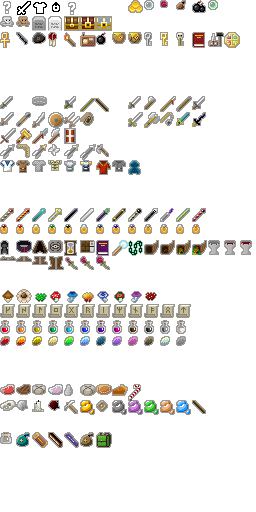
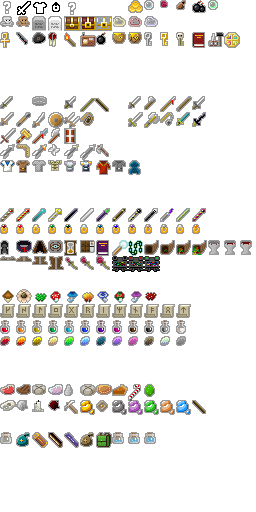
First Release

diff --git a/core/src/main/java/com/shatteredpixel/lovecraftpixeldungeon/sprites/ItemSpriteSheet.java b/core/src/main/java/com/shatteredpixel/lovecraftpixeldungeon/sprites/ItemSpriteSheet.java
@@ -70,6 +70,9 @@ public class ItemSpriteSheet {
 	public static final int CHEST           = CONTAINERS+4;
 	public static final int LOCKED_CHEST    = CONTAINERS+5;
 	public static final int CRYSTAL_CHEST   = CONTAINERS+6;
+	public static final int GOO_DROP_YELLOW = CONTAINERS+7;
+	public static final int GOO_DROP_RED    = CONTAINERS+8;
+	public static final int GOO_DROP_PURPLE = CONTAINERS+9;
 	static{
 		assignItemRect(BONES,           14, 11);
 		assignItemRect(REMAINS,         14, 11);
@@ -78,6 +81,12 @@ public class ItemSpriteSheet {
 		assignItemRect(CHEST,           16, 15);
 		assignItemRect(LOCKED_CHEST,    16, 15);
 		assignItemRect(CRYSTAL_CHEST,   16, 15);
+		assignItemRect(CHEST,           16, 15);
+		assignItemRect(LOCKED_CHEST,    16, 15);
+		assignItemRect(CRYSTAL_CHEST,   16, 15);
+		assignItemRect(GOO_DROP_YELLOW, 16, 12);
+		assignItemRect(GOO_DROP_RED,    16, 12);
+		assignItemRect(GOO_DROP_PURPLE, 16, 12);
 	}
 
 	private static final int SINGLE_USE     =                               xy(1, 3);   //32 slots
@@ -294,6 +303,9 @@ public class ItemSpriteSheet {
 	public static final int ARTIFACT_ROSE1      = ARTIFACTS+20;
 	public static final int ARTIFACT_ROSE2      = ARTIFACTS+21;
 	public static final int ARTIFACT_ROSE3      = ARTIFACTS+22;
+	public static final int ARTIFACT_STATUEPEPE1= ARTIFACTS+23;
+	public static final int ARTIFACT_STATUEPEPE2= ARTIFACTS+24;
+	public static final int ARTIFACT_STATUEPEPE3= ARTIFACTS+25;
 	static{
 		assignItemRect(ARTIFACT_CLOAK,      9,  15);
 		assignItemRect(ARTIFACT_ARMBAND,    16, 13);
@@ -318,6 +330,9 @@ public class ItemSpriteSheet {
 		assignItemRect(ARTIFACT_ROSE1,      14, 14);
 		assignItemRect(ARTIFACT_ROSE2,      14, 14);
 		assignItemRect(ARTIFACT_ROSE3,      14, 14);
+		assignItemRect(ARTIFACT_STATUEPEPE1,16, 16);
+		assignItemRect(ARTIFACT_STATUEPEPE2,16, 16);
+		assignItemRect(ARTIFACT_STATUEPEPE3,16, 16);
 	}
 
 	private static final int SHROOMS        	=                               xy(1, 19);  //16 slots
@@ -404,6 +419,7 @@ public class ItemSpriteSheet {
 	public static final int PASTY       = FOOD+6;
 	public static final int PUMPKIN_PIE = FOOD+7;
 	public static final int CANDY_CANE  = FOOD+8;
+	public static final int MIGOEGG     = FOOD+9;
 	static{
 		assignItemRect(MEAT,        15, 11);
 		assignItemRect(STEAK,       15, 11);
@@ -414,6 +430,7 @@ public class ItemSpriteSheet {
 		assignItemRect(PASTY,       16, 11);
 		assignItemRect(PUMPKIN_PIE, 16, 12);
 		assignItemRect(CANDY_CANE,  13, 16);
+		assignItemRect(MIGOEGG,     16, 14);
 	}
 
 	private static final int QUEST  	=                                       xy(1, 26);  //32 slots
@@ -455,6 +472,9 @@ public class ItemSpriteSheet {
 	public static final int HOLSTER     = BAGS+4;
 	public static final int FOODBAG     = BAGS+5;
 	public static final int WEAPONBAG   = BAGS+6;
+	public static final int VIALF1      = BAGS+7;
+	public static final int VIALF2      = BAGS+8;
+	public static final int VIALF3      = BAGS+9;
 	static{
 		assignItemRect(VIAL,        12, 12);
 		assignItemRect(POUCH,       14, 15);
@@ -463,6 +483,9 @@ public class ItemSpriteSheet {
 		assignItemRect(HOLSTER,     15, 16);
 		assignItemRect(FOODBAG,     14, 15);
 		assignItemRect(WEAPONBAG,   16, 16);
+		assignItemRect(VIALF1,      12, 12);
+		assignItemRect(VIALF2,      12, 12);
+		assignItemRect(VIALF3,      12, 12);
 	}
 
 	                                                                                    //64 free slots

diff --git a/core/src/main/java/com/shatteredpixel/lovecraftpixeldungeon/levels/painters/KekTemplePainter.java b/core/src/main/java/com/shatteredpixel/lovecraftpixeldungeon/levels/painters/KekTemplePainter.java
@@ -1,0 +1,73 @@
+/*
+ * Pixel Dungeon
+ * Copyright (C) 2012-2015  Oleg Dolya
+ *
+ * Shattered Pixel Dungeon
+ * Copyright (C) 2014-2016 Evan Debenham
+ *
+ * This program is free software: you can redistribute it and/or modify
+ * it under the terms of the GNU General Public License as published by
+ * the Free Software Foundation, either version 3 of the License, or
+ * (at your option) any later version.
+ *
+ * This program is distributed in the hope that it will be useful,
+ * but WITHOUT ANY WARRANTY; without even the implied warranty of
+ * MERCHANTABILITY or FITNESS FOR A PARTICULAR PURPOSE.  See the
+ * GNU General Public License for more details.
+ *
+ * You should have received a copy of the GNU General Public License
+ * along with this program.  If not, see <http://www.gnu.org/licenses/>
+ */
+package com.shatteredpixel.lovecraftpixeldungeon.levels.painters;
+
+import com.shatteredpixel.lovecraftpixeldungeon.Dungeon;
+import com.shatteredpixel.lovecraftpixeldungeon.actors.mobs.Yig;
+import com.shatteredpixel.lovecraftpixeldungeon.items.Generator;
+import com.shatteredpixel.lovecraftpixeldungeon.items.Item;
+import com.shatteredpixel.lovecraftpixeldungeon.items.potions.PotionOfLevitation;
+import com.shatteredpixel.lovecraftpixeldungeon.items.weapon.Weapon;
+import com.shatteredpixel.lovecraftpixeldungeon.levels.Level;
+import com.shatteredpixel.lovecraftpixeldungeon.levels.Room;
+import com.shatteredpixel.lovecraftpixeldungeon.levels.Terrain;
+import com.shatteredpixel.lovecraftpixeldungeon.typedscroll.randomer.Randomer;
+import com.watabou.utils.Point;
+import com.watabou.utils.Random;
+
+public class KekTemplePainter extends Painter {
+
+	public static void paint(Level level, Room room ) {
+
+		fill( level, room, Terrain.WALL );
+		fill( level, room, 1, Dungeon.bossLevel( Dungeon.depth + 1 ) ? Terrain.HIGH_GRASS : Terrain.CHASM );
+
+		Point c = room.center();
+		Room.Door door = room.entrance();
+		door.set(Room.Door.Type.EMPTY);
+
+		fill( level, c.x - 1, c.y - 1, 3, 3, Terrain.EMBERS );
+		int pos = c.x + c.y * level.width();
+		if(Randomer.randomBoolean() == true){
+			level.drop(new PotionOfLevitation(), pos);
+			Item item = Generator.random(Generator.Category.WEP_T5);
+			if(item instanceof Weapon){
+				((Weapon) item).enchant().upgrade(Random.IntRange(Dungeon.depth/2, Dungeon.depth)).identify();
+			}
+			level.drop(item, pos );
+			set( level, c, Terrain.PEDESTAL );
+
+		} else {
+			set( level, c, Terrain.ENCHANTING);
+			level.drop(new PotionOfLevitation(), pos+1);
+		}
+		Yig yig = new Yig();
+		yig.pos = pos-1;
+		yig.SLEEPING.status();
+		level.mobs.add( yig );
+
+		level.addItemToSpawn( new PotionOfLevitation() );
+
+
+
+		door.set( Room.Door.Type.EMPTY );
+	}
+}

diff --git a/core/src/main/java/com/shatteredpixel/lovecraftpixeldungeon/items/DewVial.java b/core/src/main/java/com/shatteredpixel/lovecraftpixeldungeon/items/DewVial.java
@@ -98,6 +98,17 @@ public class DewVial extends Item {
 		if(action.equals( AC_BLESS )){
 			GameScene.selectItem(itemSelector, mode, inventoryTitle);
 			this.empty();
+			if(isFull()){
+				image = ItemSpriteSheet.VIALF3;
+			} else if(volume == MAX_VOLUME/2){
+				image = ItemSpriteSheet.VIALF2;
+			} else if(volume >= 1){
+				image = ItemSpriteSheet.VIALF1;
+			} else {
+				image = ItemSpriteSheet.VIAL;
+			}
+
+			updateQuickslot();
 			GLog.w( Messages.get(this, "blessed") );
 		}
 
@@ -139,7 +150,30 @@ public class DewVial extends Item {
 
 			} else {
 				GLog.w( Messages.get(this, "empty") );
+				if(isFull()){
+					image = ItemSpriteSheet.VIALF3;
+				} else if(volume == MAX_VOLUME/2){
+					image = ItemSpriteSheet.VIALF2;
+				} else if(volume >= 1){
+					image = ItemSpriteSheet.VIALF1;
+				} else {
+					image = ItemSpriteSheet.VIAL;
+				}
+
+				updateQuickslot();
 			}
+
+			if(isFull()){
+				image = ItemSpriteSheet.VIALF3;
+			} else if(volume == MAX_VOLUME/2){
+				image = ItemSpriteSheet.VIALF2;
+			} else if(volume >= 1){
+				image = ItemSpriteSheet.VIALF1;
+			} else {
+				image = ItemSpriteSheet.VIAL;
+			}
+
+			updateQuickslot();
 
 		}
 	}
@@ -171,6 +205,16 @@ public class DewVial extends Item {
 
 		weight = (volume/10) + 1;
 
+		if(isFull()){
+			image = ItemSpriteSheet.VIALF3;
+		} else if(volume == MAX_VOLUME/2){
+			image = ItemSpriteSheet.VIALF2;
+		} else if(volume >= 1){
+			image = ItemSpriteSheet.VIALF1;
+		} else {
+			image = ItemSpriteSheet.VIAL;
+		}
+
 		updateQuickslot();
 	}
 
@@ -185,11 +229,30 @@ public class DewVial extends Item {
 
 		weight = (volume/10) + 1;
 
+		if(isFull()){
+			image = ItemSpriteSheet.VIALF3;
+		} else if(volume == MAX_VOLUME/2){
+			image = ItemSpriteSheet.VIALF2;
+		} else if(volume >= 1){
+			image = ItemSpriteSheet.VIALF1;
+		} else {
+			image = ItemSpriteSheet.VIAL;
+		}
+
 		updateQuickslot();
 	}
 
 	public void fill() {
 		volume = MAX_VOLUME;
+		if(isFull()){
+			image = ItemSpriteSheet.VIALF3;
+		} else if(volume == MAX_VOLUME/2){
+			image = ItemSpriteSheet.VIALF2;
+		} else if(volume >= 1){
+			image = ItemSpriteSheet.VIALF1;
+		} else {
+			image = ItemSpriteSheet.VIAL;
+		}
 		updateQuickslot();
 	}
 

diff --git a/core/src/main/java/com/shatteredpixel/lovecraftpixeldungeon/levels/painters/LevelBossPainter.java b/core/src/main/java/com/shatteredpixel/lovecraftpixeldungeon/levels/painters/LevelBossPainter.java
@@ -25,6 +25,7 @@ import com.shatteredpixel.lovecraftpixeldungeon.actors.mobs.MiGoQueen;
 import com.shatteredpixel.lovecraftpixeldungeon.items.Generator;
 import com.shatteredpixel.lovecraftpixeldungeon.items.Heap;
 import com.shatteredpixel.lovecraftpixeldungeon.items.Item;
+import com.shatteredpixel.lovecraftpixeldungeon.items.keys.GoldenKey;
 import com.shatteredpixel.lovecraftpixeldungeon.items.keys.IronKey;
 import com.shatteredpixel.lovecraftpixeldungeon.levels.Level;
 import com.shatteredpixel.lovecraftpixeldungeon.levels.Room;
@@ -34,11 +35,9 @@ import com.watabou.utils.Random;
 
 public class LevelBossPainter extends Painter {
 
-	public static void paint(Level level, Room room ) {
+	public static void paint(final Level level, Room room ) {
 
 		Room.Door entrance = room.entrance();
-		entrance.set(Room.Door.Type.LOCKED);
-		level.addItemToSpawn(new IronKey(Dungeon.depth));
 
 		fill(level, room, Terrain.WALL);
 		fill(level, room, 1, Terrain.EMPTY);
@@ -60,9 +59,20 @@ public class LevelBossPainter extends Painter {
 		placePlant(level, room.center().x+room.center().y * level.width(), heartX + heartY * level.width());
 
 		if(Dungeon.depth == 1){
-			MiGoQueen miGoQueen = new MiGoQueen();
+			MiGoQueen miGoQueen = new MiGoQueen(){
+				@Override
+				public void die(Object cause) {
+					super.die(cause);
+					level.drop(new GoldenKey(Dungeon.depth), this.pos);
+				}
+			};
 			miGoQueen.pos = room.center().x+room.center().y * level.width();
 			Dungeon.level.mobs.add(miGoQueen);
+		}
+
+		for (Room.Door door : room.connected.values()) {
+			door.set( Room.Door.Type.LOCKED );
+			level.addItemToSpawn(new IronKey(Dungeon.depth));
 		}
 	}
 

diff --git a/core/src/main/java/com/shatteredpixel/lovecraftpixeldungeon/actors/mobs/MiGoQueen.java b/core/src/main/java/com/shatteredpixel/lovecraftpixeldungeon/actors/mobs/MiGoQueen.java
@@ -26,6 +26,7 @@ import com.shatteredpixel.lovecraftpixeldungeon.actors.Char;
 import com.shatteredpixel.lovecraftpixeldungeon.actors.hero.Hero;
 import com.shatteredpixel.lovecraftpixeldungeon.effects.Pushing;
 import com.shatteredpixel.lovecraftpixeldungeon.items.KindOfWeapon;
+import com.shatteredpixel.lovecraftpixeldungeon.items.MiGoEgg;
 import com.shatteredpixel.lovecraftpixeldungeon.items.weapon.Weapon;
 import com.shatteredpixel.lovecraftpixeldungeon.items.weapon.enchantments.Unstable;
 import com.shatteredpixel.lovecraftpixeldungeon.items.weapon.melee.MeleeWeapon;
@@ -35,7 +36,6 @@ import com.shatteredpixel.lovecraftpixeldungeon.scenes.GameScene;
 import com.shatteredpixel.lovecraftpixeldungeon.sprites.MiGoLarvaSprite;
 import com.shatteredpixel.lovecraftpixeldungeon.sprites.MiGoQueenSprite;
 import com.shatteredpixel.lovecraftpixeldungeon.typedscroll.randomer.Randomer;
-import com.shatteredpixel.lovecraftpixeldungeon.utils.GLog;
 import com.watabou.utils.PathFinder;
 import com.watabou.utils.Random;
 
@@ -54,8 +54,8 @@ public class MiGoQueen extends Mob {
 		maxLvl = 5;
 		properties.add(Property.IMMOVABLE);
 
-		//loot = something slimy!
-		lootChance = 0.3f*Dungeon.depth;
+		loot = MiGoEgg.class;
+		lootChance = 0.8f;
 
 		baseSpeed = 0.2f;
 	}
@@ -111,7 +111,6 @@ public class MiGoQueen extends Mob {
 					Dungeon.quickslot.clearItem(weapon);
 					weapon.updateQuickslot();
 					Dungeon.level.drop(weapon, hero.pos).sprite.drop();
-					GLog.w(this.name+"'s gluey skin has kept your weapon sticking to it!");
 				} catch(Exception e) {
 
 				}

diff --git a/core/src/main/java/com/shatteredpixel/lovecraftpixeldungeon/items/MiGoEgg.java b/core/src/main/java/com/shatteredpixel/lovecraftpixeldungeon/items/MiGoEgg.java
@@ -1,0 +1,40 @@
+package com.shatteredpixel.lovecraftpixeldungeon.items;
+
+import com.shatteredpixel.lovecraftpixeldungeon.actors.hero.Hero;
+import com.shatteredpixel.lovecraftpixeldungeon.sprites.ItemSpriteSheet;
+
+import java.util.ArrayList;
+
+public class MiGoEgg extends Item {
+
+    private static final String AC_BREAK	= "BREAK";
+
+    {
+        image = ItemSpriteSheet.MIGOEGG;
+        stackable = false;
+        defaultAction = AC_BREAK;
+        identify();
+        weight = 4;
+    }
+
+    @Override
+    public ArrayList<String> actions(Hero hero ) {
+        ArrayList<String> actions = super.actions( hero );
+        actions.add( AC_BREAK );
+        return actions;
+    }
+
+    @Override
+    public void execute(Hero hero, String action) {
+        super.execute(hero, action);
+        if(action.equals(AC_BREAK)){
+            this.detach(hero.belongings.backpack);
+
+        }
+    }
+
+    @Override
+    public int price() {
+        return 10000;
+    }
+}
